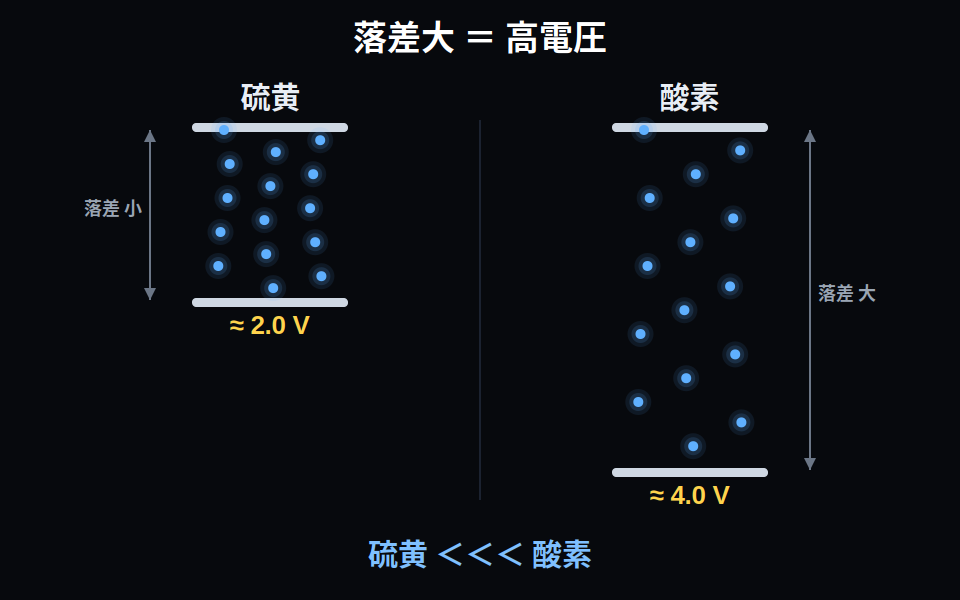
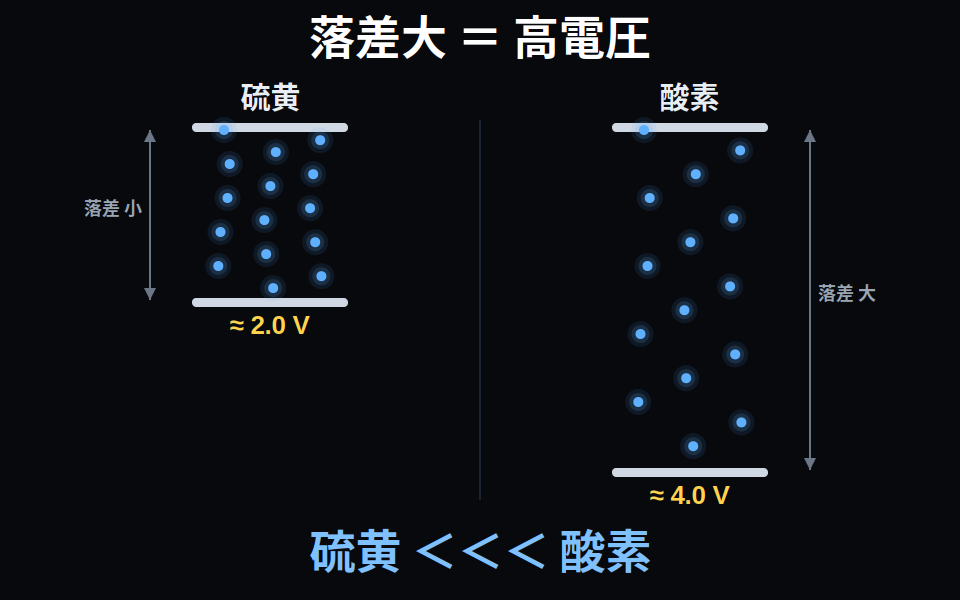
Enlarge telop text and extend waterfall animation to 30s
「落差大＝高電圧」「硫黄＜＜＜酸素」を同サイズに拡大し、尺を30秒に変更。

Claude-Session: https://claude.ai/code/session_01Kg4gHG9qE31FJUM2AMLmoU

Changed region(s): [[0.3125, 0.87, 0.6875, 0.96], [0.3125, 0.03, 0.6875, 0.12]]

diff --git a/eyecatch/make_voltage_waterfall.py b/eyecatch/make_voltage_waterfall.py
@@ -19,7 +19,7 @@ BLUE = "#5fb0ff"
 SUB = 60          # 1ループのフレーム数
 FPS = 20
 CYCLES = 3        # 1ループ中に電子が落ちる回数(シームレス)
-SECONDS = 15
+SECONDS = 30
 
 Y_TOP = 130
 PX_PER_V = 85.0
@@ -78,10 +78,10 @@ def build_svg(frame):
     cols = "\n".join(column(c, t) for c in COLS)
     return f'''<svg xmlns="http://www.w3.org/2000/svg" width="{W}" height="{H}" viewBox="0 0 {W} {H}">
   <rect width="{W}" height="{H}" fill="{BG}"/>
-  <text x="{W/2}" y="50" font-family="Noto Sans CJK JP, sans-serif" font-size="34" font-weight="bold" fill="#ffffff" text-anchor="middle">落差大 ＝ 高電圧</text>
+  <text x="{W/2}" y="54" font-family="Noto Sans CJK JP, sans-serif" font-size="46" font-weight="bold" fill="#ffffff" text-anchor="middle">落差大 ＝ 高電圧</text>
   <line x1="{W/2}" y1="120" x2="{W/2}" y2="500" stroke="#1b2230" stroke-width="2"/>
   {cols}
-  <text x="{W/2}" y="565" font-family="Noto Sans CJK JP, sans-serif" font-size="30" font-weight="bold" fill="#7fc0ff" text-anchor="middle">硫黄 ＜＜＜ 酸素</text>
+  <text x="{W/2}" y="568" font-family="Noto Sans CJK JP, sans-serif" font-size="46" font-weight="bold" fill="#7fc0ff" text-anchor="middle">硫黄 ＜＜＜ 酸素</text>
 </svg>'''
 
 